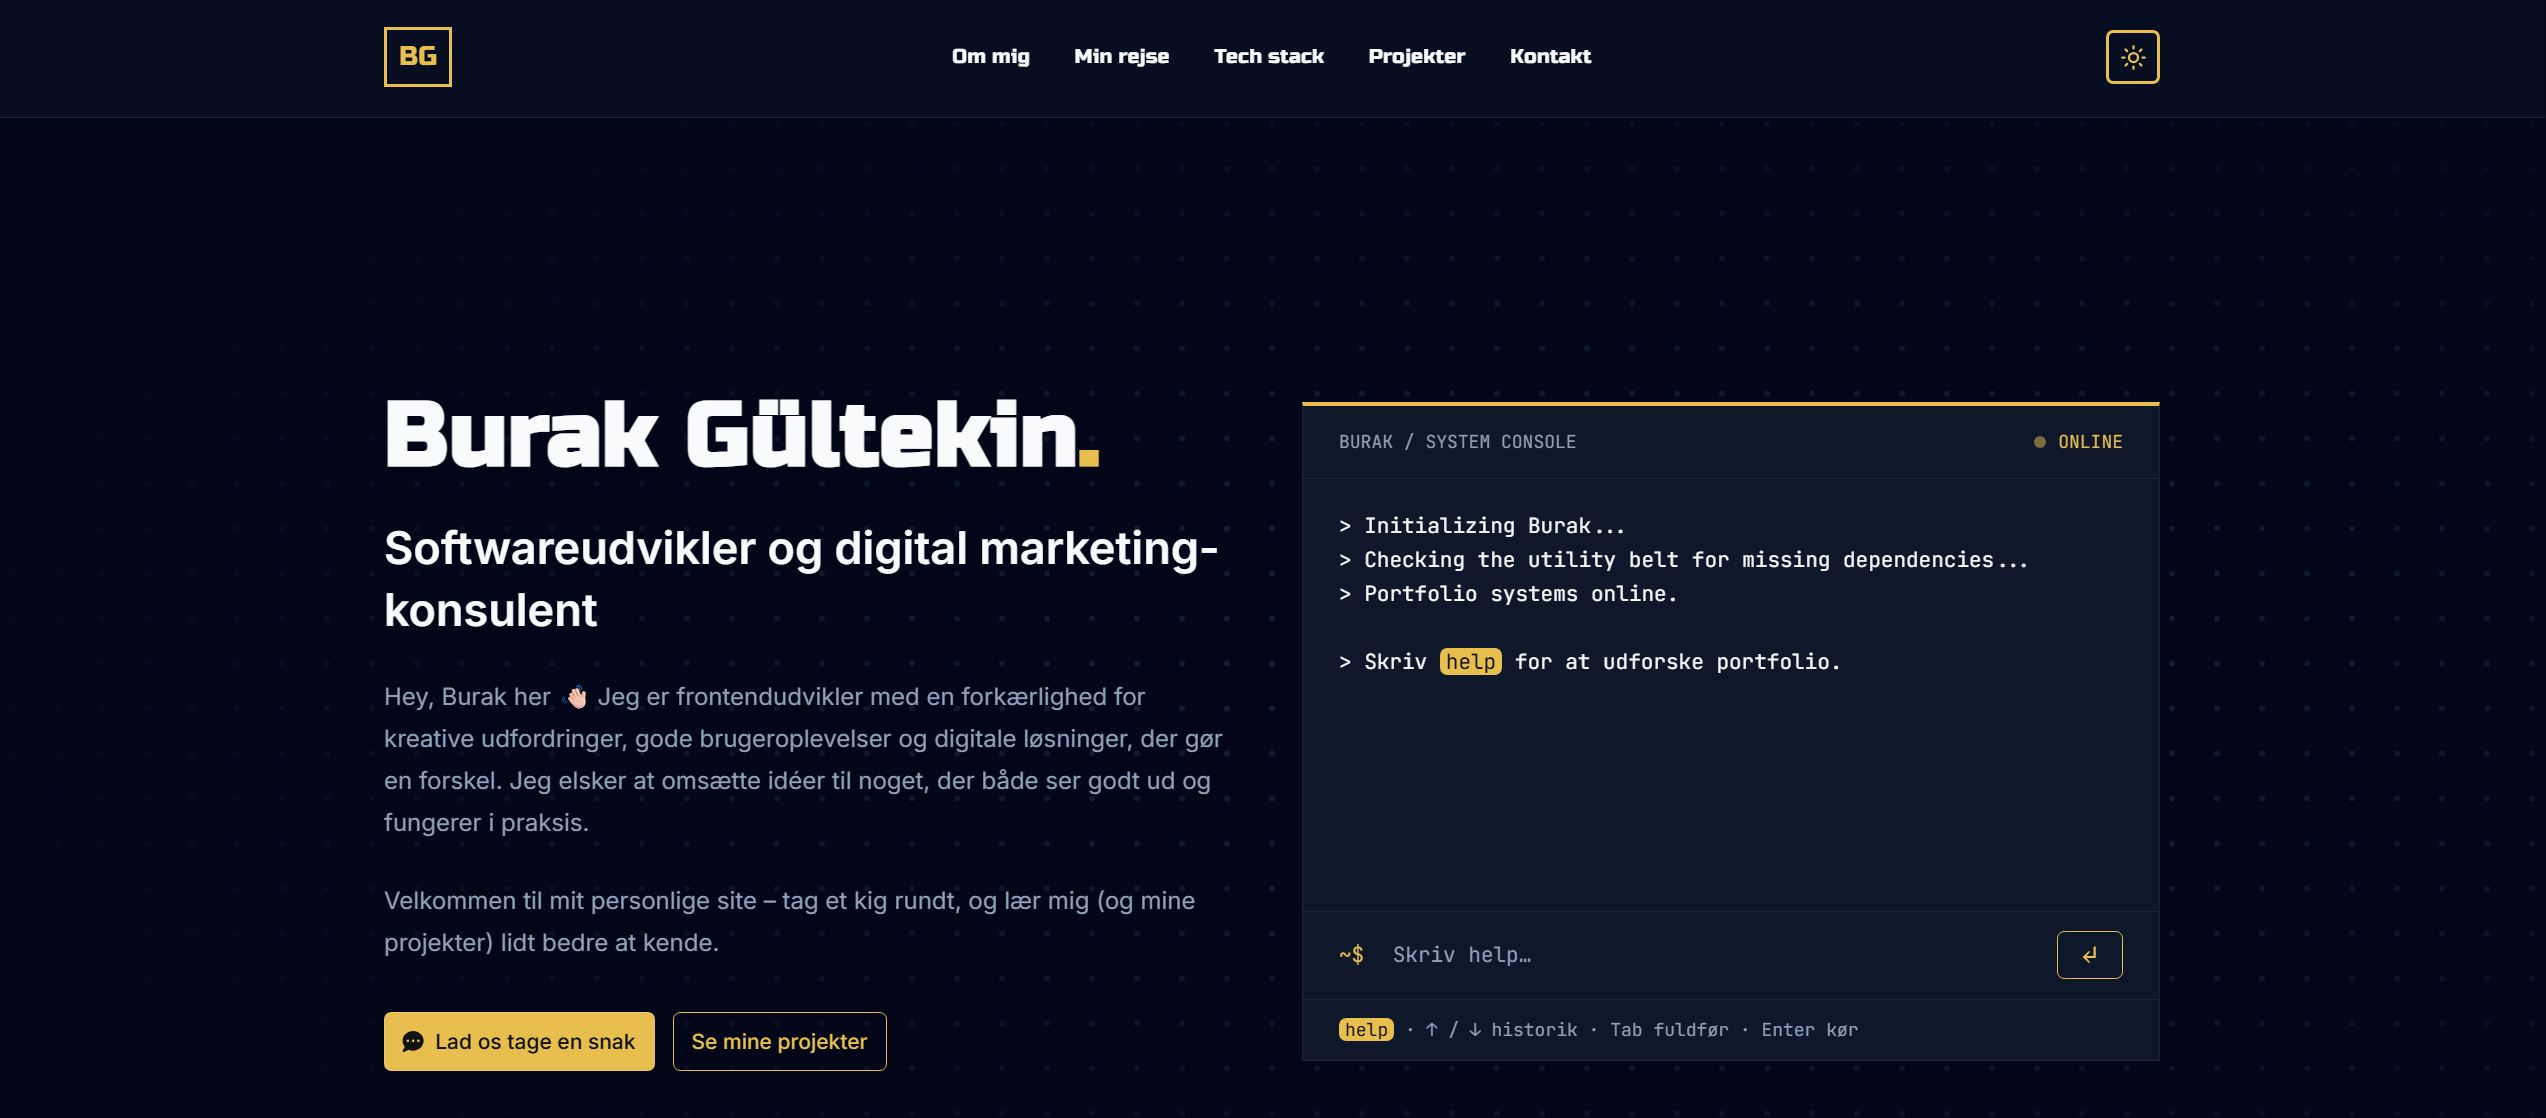
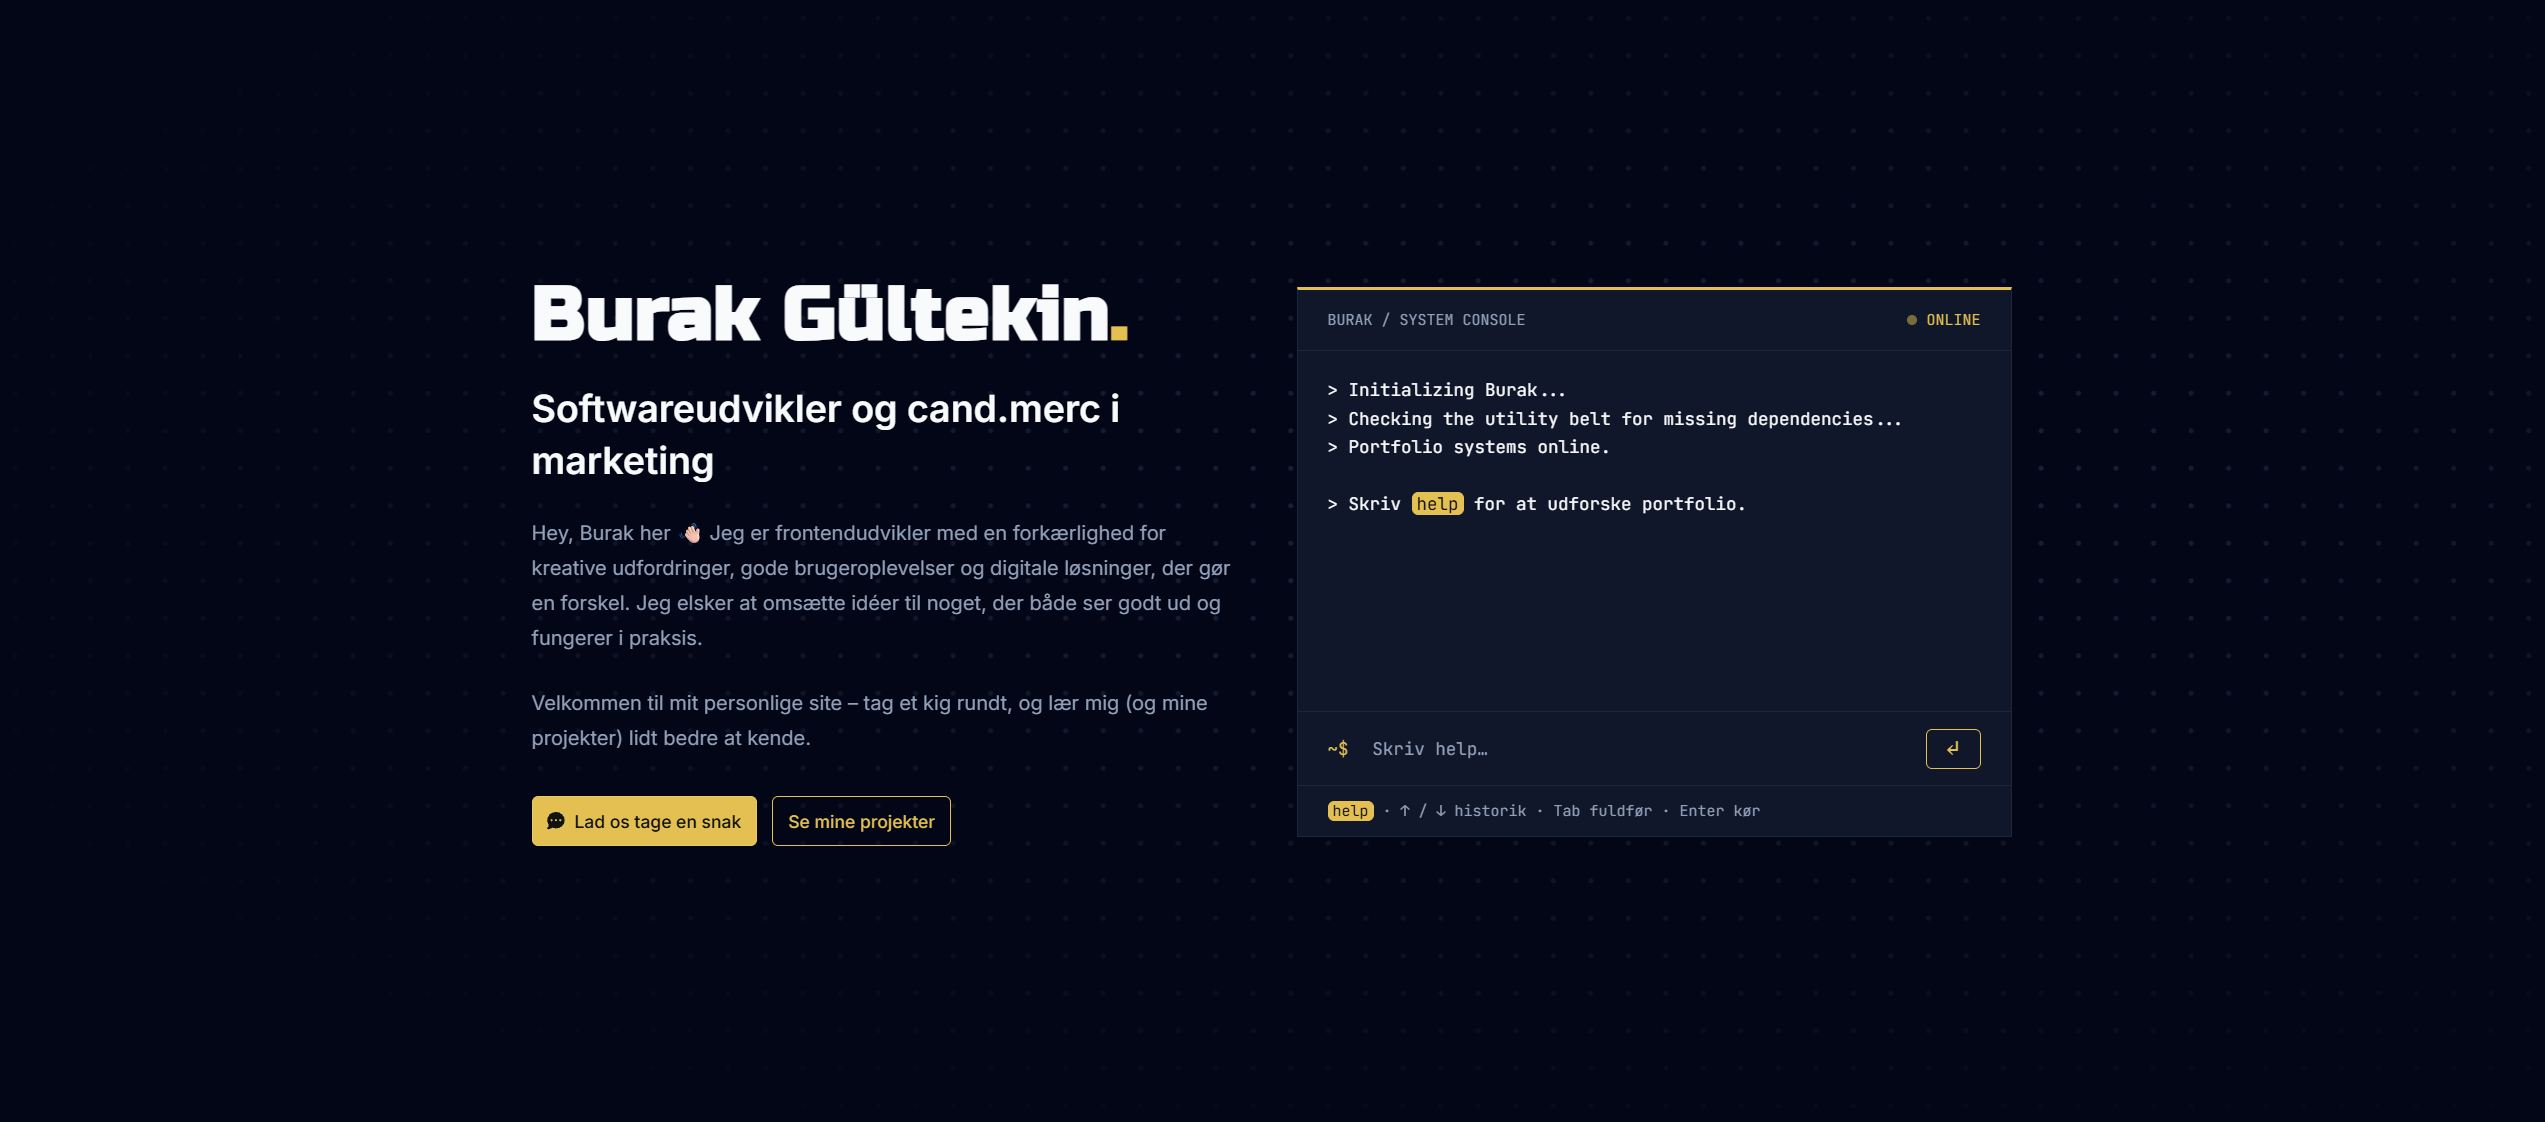
Added new portfolio featured image, updated job descriptions, updated hero title

diff --git a/src/lib/timelineData.ts b/src/lib/timelineData.ts
@@ -29,11 +29,11 @@ export const workExperience: TimelineEntry[] = [
       { id: '3', title: 'Softwarepraktikant', period: 'Januar 2026 - April 2026' },
     ],
     description:
-      'Jeg startede som softwarepraktikant og fortsatte efterfølgende som studentermedhjælper, inden jeg blev fastansat som softwareudvikler. Gennem mine forskellige roller har jeg primært arbejdet med frontendudvikling af digitale løsninger, der understøtter og effektiviserer arbejdsprocesser i sundhedsvæsenet.',
+      'Jeg startede som softwarepraktikant og fortsatte efterfølgende som studentermedhjælper, inden jeg blev ansat som softwareudvikler. Gennem mine forskellige roller har jeg primært arbejdet med frontendudvikling af digitale løsninger, der understøtter og effektiviserer arbejdsprocesser i sundhedsvæsenet.',
     highlights: [
       'Udvikling af UI og genanvendelige komponenter med React og TypeScript.',
-      'Samarbejde i et agilt team med fokus på sparring og løbende forbedringer.',
-      'Anvendelse af AI til at optimere mit udviklingsflow og styrke min faglige udvikling.',
+      'Arbejde med API-integrationer og samarbejde om løsninger på tværs af frontend og backend.',
+      'Deltagelse i agile udviklingsprocesser med code reviews, sparring og løbende forbedringer.',
     ],
     type: 'work',
   },
@@ -46,7 +46,7 @@ export const workExperience: TimelineEntry[] = [
       'Hos Publico Kommunikation arbejdede jeg med digital marketing og webudvikling med fokus på at skabe brugervenlige digitale løsninger og styrke virksomheders online tilstedeværelse. Rollen kombinerede teknisk arbejde med strategisk rådgivning og tæt samarbejde med designere, udviklere og eksterne samarbejdspartnere.',
     highlights: [
       'Udvikling og tilpasning af websites i HubSpot CMS og WordPress med fokus på brugeroplevelse og konvertering.',
-      'Planlægning og optimering af Google Ads-kampagner og e-mailmarketing.',
+      'Strategisk rådgivning om digitale løsninger samt planlægning og optimering af Google Ads-kampagner og e-mailmarketing.',
       'Koordinering af websiteprojekter i samarbejde med designere, udviklere og tekniske partnere.',
     ],
     type: 'work',

diff --git a/src/components/sections/Hero.tsx b/src/components/sections/Hero.tsx
@@ -21,7 +21,7 @@ export default function Hero() {
               </Heading>
 
               <Text className="text-fg text-2xl leading-snug font-semibold md:text-3xl">
-                Softwareudvikler og <span className="">digital marketing-konsulent</span>
+                Softwareudvikler og <span className="">cand.merc i marketing</span>
               </Text>
 
               <Text className="text-muted-fg">
